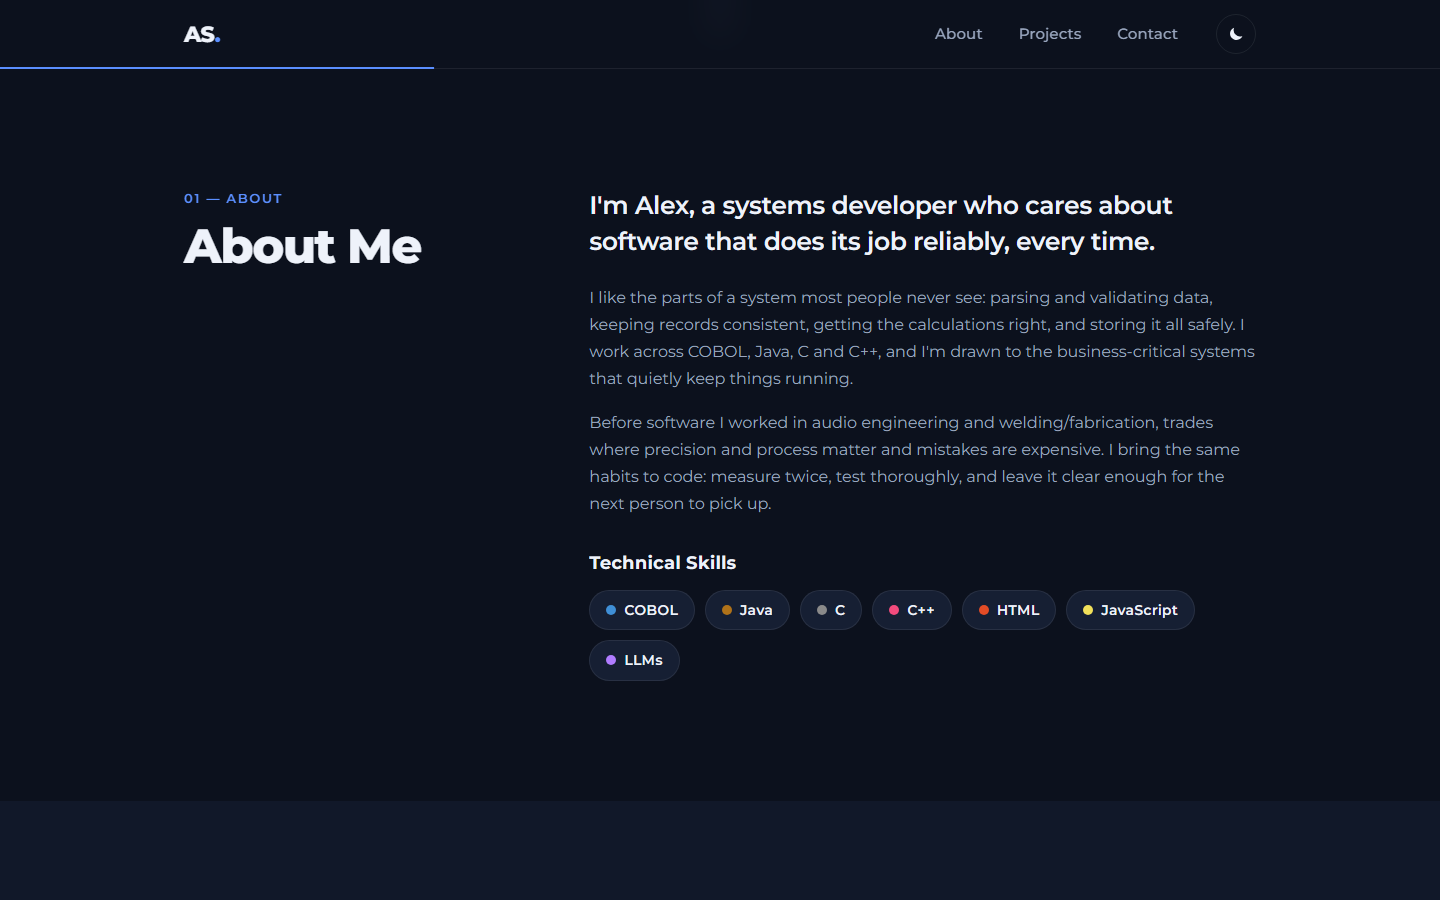
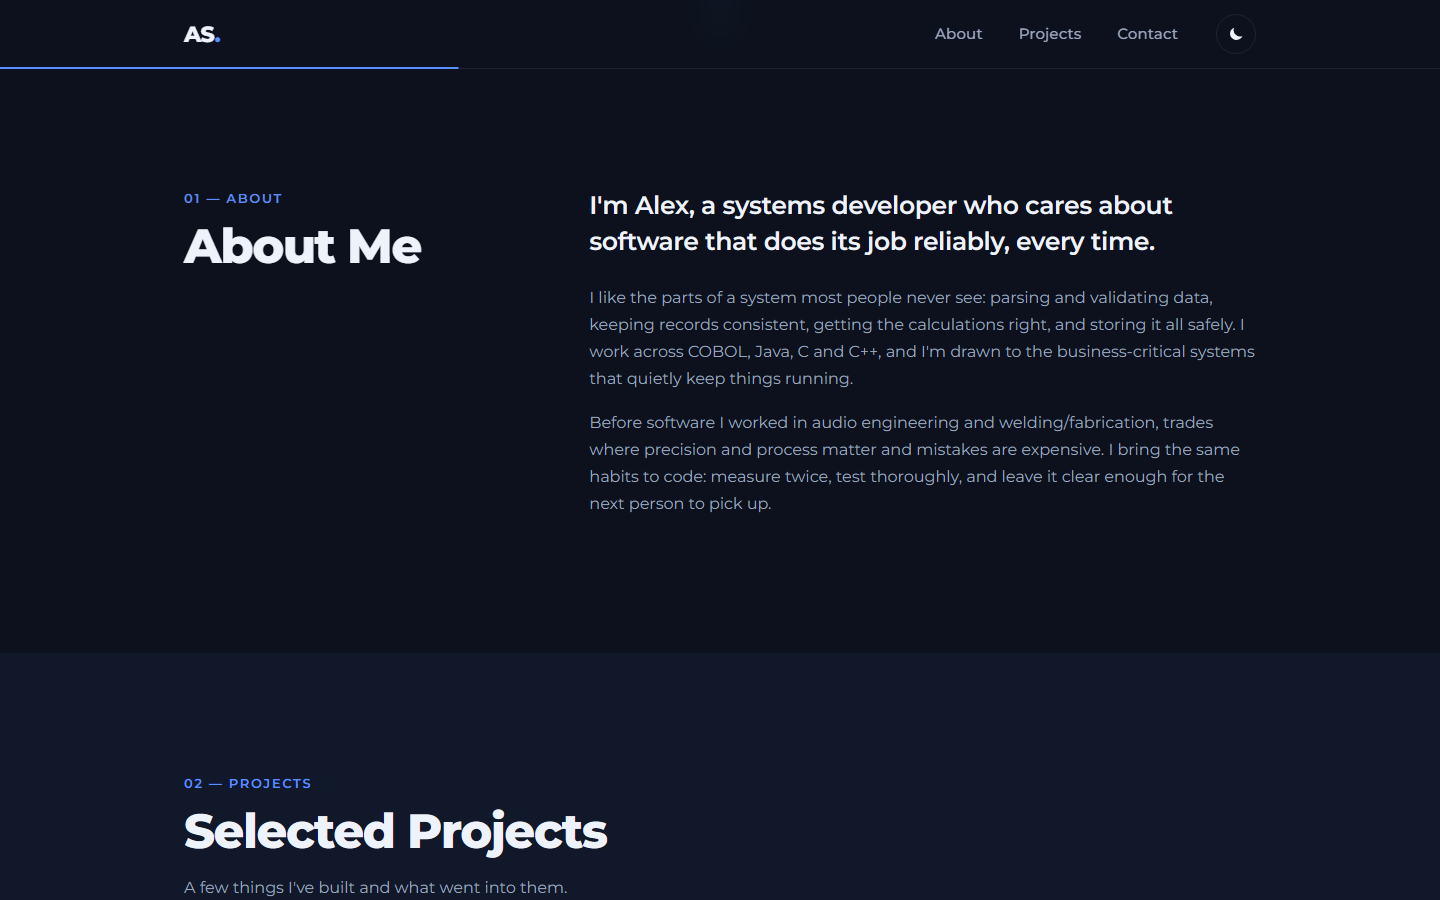
Remove Technical Skills section

diff --git a/index.html b/index.html
@@ -72,17 +72,6 @@
                     <p class="about-lead">I'm Alex, a systems developer who cares about software that does its job reliably, every time.</p>
                     <p>I like the parts of a system most people never see: parsing and validating data, keeping records consistent, getting the calculations right, and storing it all safely. I work across COBOL, Java, C and C++, and I'm drawn to the business-critical systems that quietly keep things running.</p>
                     <p>Before software I worked in audio engineering and welding/fabrication, trades where precision and process matter and mistakes are expensive. I bring the same habits to code: measure twice, test thoroughly, and leave it clear enough for the next person to pick up.</p>
-
-                    <h3 class="sub-title">Technical Skills</h3>
-                    <ul class="skills">
-                        <li class="skill" style="--dot:#3f8fd6">COBOL</li>
-                        <li class="skill" style="--dot:#b07219">Java</li>
-                        <li class="skill" style="--dot:#8a8a8a">C</li>
-                        <li class="skill" style="--dot:#f34b7d">C++</li>
-                        <li class="skill" style="--dot:#e34c26">HTML</li>
-                        <li class="skill" style="--dot:#f1e05a">JavaScript</li>
-                        <li class="skill" style="--dot:#b07cff">LLMs</li>
-                    </ul>
                 </div>
             </div>
         </section>

diff --git a/css/style.css b/css/style.css
@@ -404,12 +404,6 @@ h1, h2, h3 {
     color: var(--text-muted);
 }
 
-.sub-title {
-    margin: 36px 0 16px;
-    font-size: 1.15rem;
-    font-weight: 700;
-}
-
 /* About */
 .about-grid {
     display: grid;
@@ -440,44 +434,6 @@ h1, h2, h3 {
     color: var(--text-muted);
     margin: 0 0 16px;
 }
-
-.skills {
-    display: flex;
-    flex-wrap: wrap;
-    gap: 10px;
-    list-style: none;
-    margin: 0;
-    padding: 0;
-}
-
-.skill {
-    display: inline-flex;
-    align-items: center;
-    gap: 8px;
-    padding: 7px 16px;
-    border: 1px solid var(--border);
-    border-radius: 999px;
-    background: var(--surface);
-    font-size: 0.9rem;
-    font-weight: 600;
-    transition: transform 0.2s ease, border-color 0.2s ease;
-}
-
-.skill::before {
-    content: "";
-    width: 10px;
-    height: 10px;
-    border-radius: 50%;
-    background: var(--dot);
-}
-
-.skill:hover {
-    transform: translateY(-2px);
-    border-color: var(--dot);
-}
-
-
-
 
 /* Projects */
 .project-grid {
@@ -858,7 +814,6 @@ h1, h2, h3 {
     .contact-form {
         padding: 24px;
     }
-
 
     .footer-inner {
         flex-direction: column;
